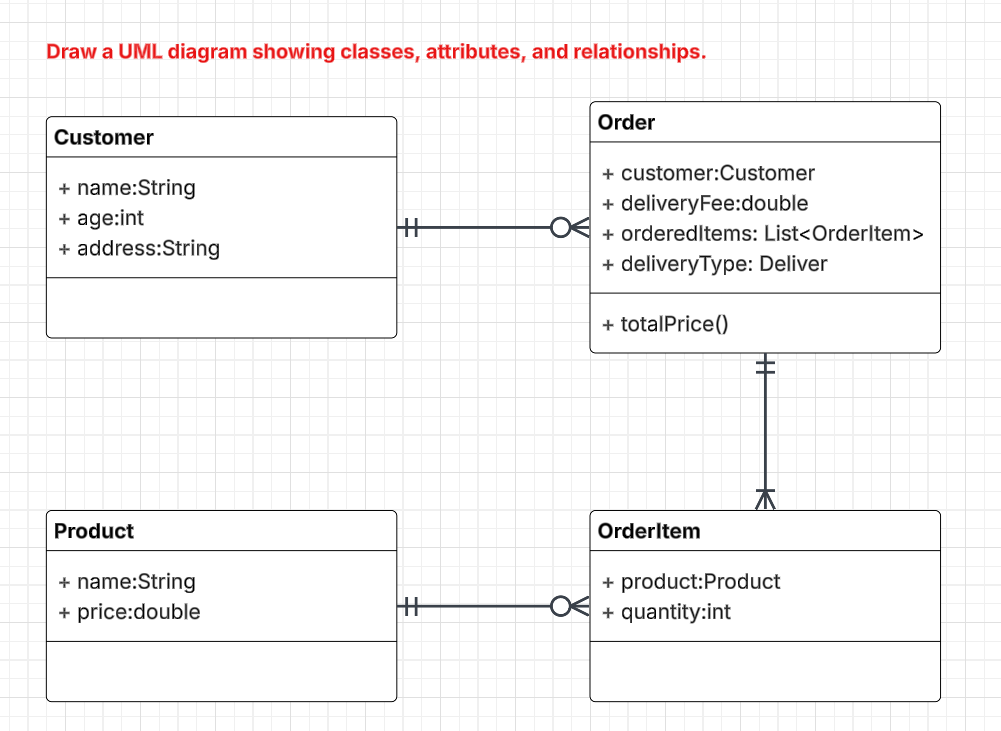
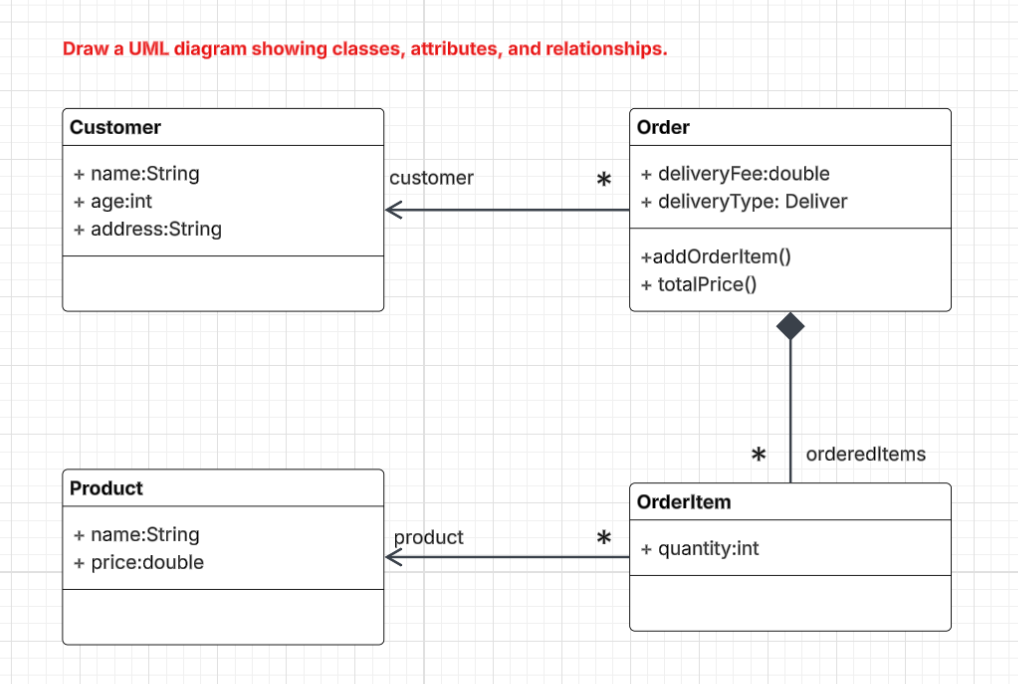
Done

diff --git a/EX-4.dart b/EX-4.dart
@@ -27,8 +27,12 @@ class Order{
   List<OrderItem> orderedItems;
   Deliver deliveryType;
 
-  Order.delivered({required this.customer, required this.orderedItems, required this.deliveryFee}) : deliveryType = Deliver.DELIVERED;
-  Order.pickedUp({required this.customer, required this.orderedItems}) : deliveryType = Deliver.PICKED_UP, deliveryFee = 0;
+  Order.delivered({required this.customer, required this.deliveryFee}) : deliveryType = Deliver.DELIVERED, orderedItems = [];
+  Order.pickedUp({required this.customer}) : deliveryType = Deliver.PICKED_UP, deliveryFee = 0, orderedItems = [];
+
+  void addOrderItem(Product product, int quantity){
+    orderedItems.add(OrderItem(product: product, quantity: quantity));
+  }
 
   void totalPrice(){
     double total = 0;
@@ -45,17 +49,19 @@ void main(){
   var laptop = Product(name: 'Laptop', price: 500.0);
   var keyboard = Product(name: 'Keyboard', price: 20.0);
   var mouse = Product(name: 'Mouse', price: 5.0);
-  var orderItems = [
-    OrderItem(product: laptop, quantity: 1), 
-    OrderItem(product: keyboard, quantity: 2),
-    OrderItem(product: mouse, quantity: 1)
-  ];
+
   print('Delivery order: ');
-  var orderDelivered = Order.delivered(customer: customer, orderedItems: orderItems, deliveryFee: 2.0);
+  var orderDelivered = Order.delivered(customer: customer, deliveryFee: 2.0);
+  orderDelivered.addOrderItem(laptop, 1);
+  orderDelivered.addOrderItem(keyboard, 1);
+  orderDelivered.addOrderItem(mouse, 1);
   orderDelivered.totalPrice();
 
   print('Pick up order: ');
-  var orderPickedUp = Order.pickedUp(customer: customer, orderedItems: orderItems);
+  var orderPickedUp = Order.pickedUp(customer: customer);
+  orderPickedUp.addOrderItem(laptop, 2);
+  orderPickedUp.addOrderItem(keyboard, 1);
+  orderPickedUp.addOrderItem(mouse, 1);
   orderPickedUp.totalPrice();
 }
 
